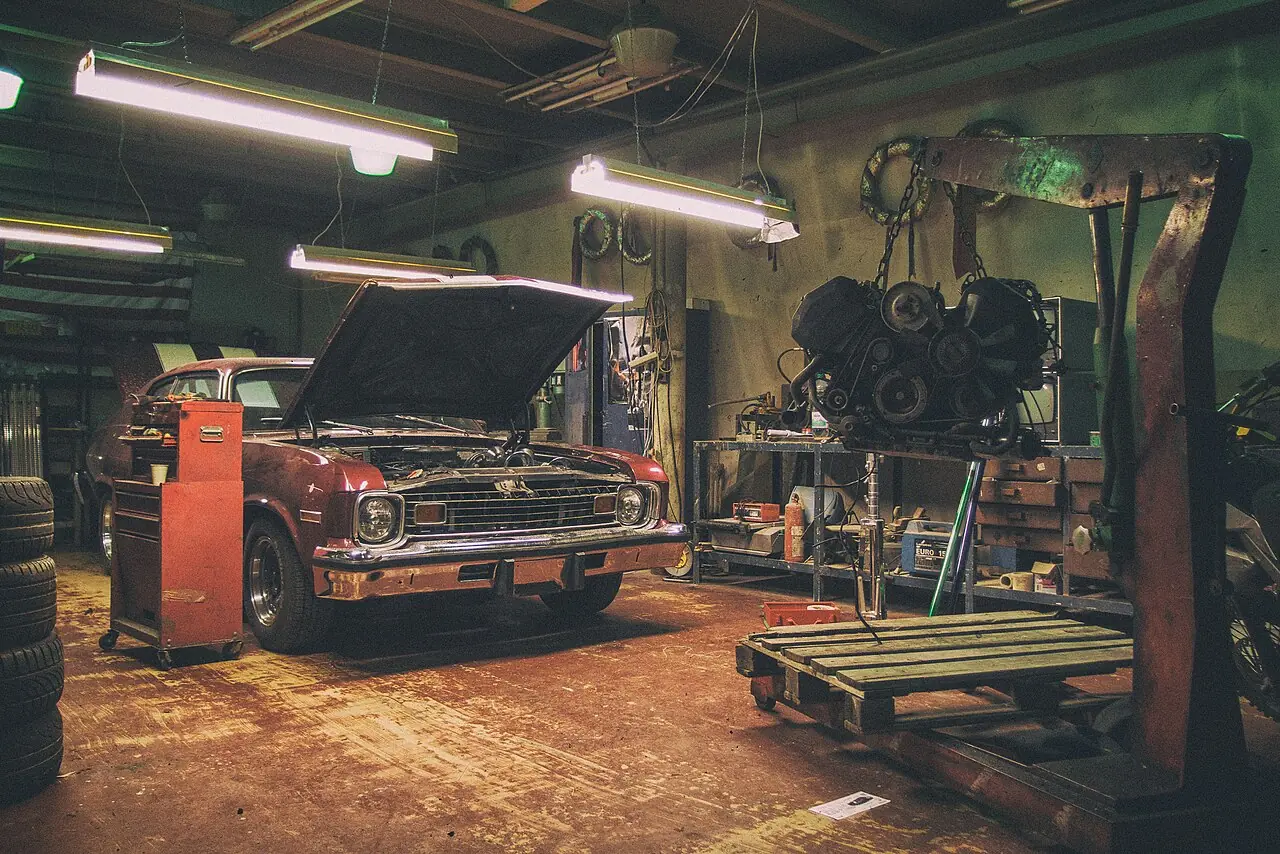
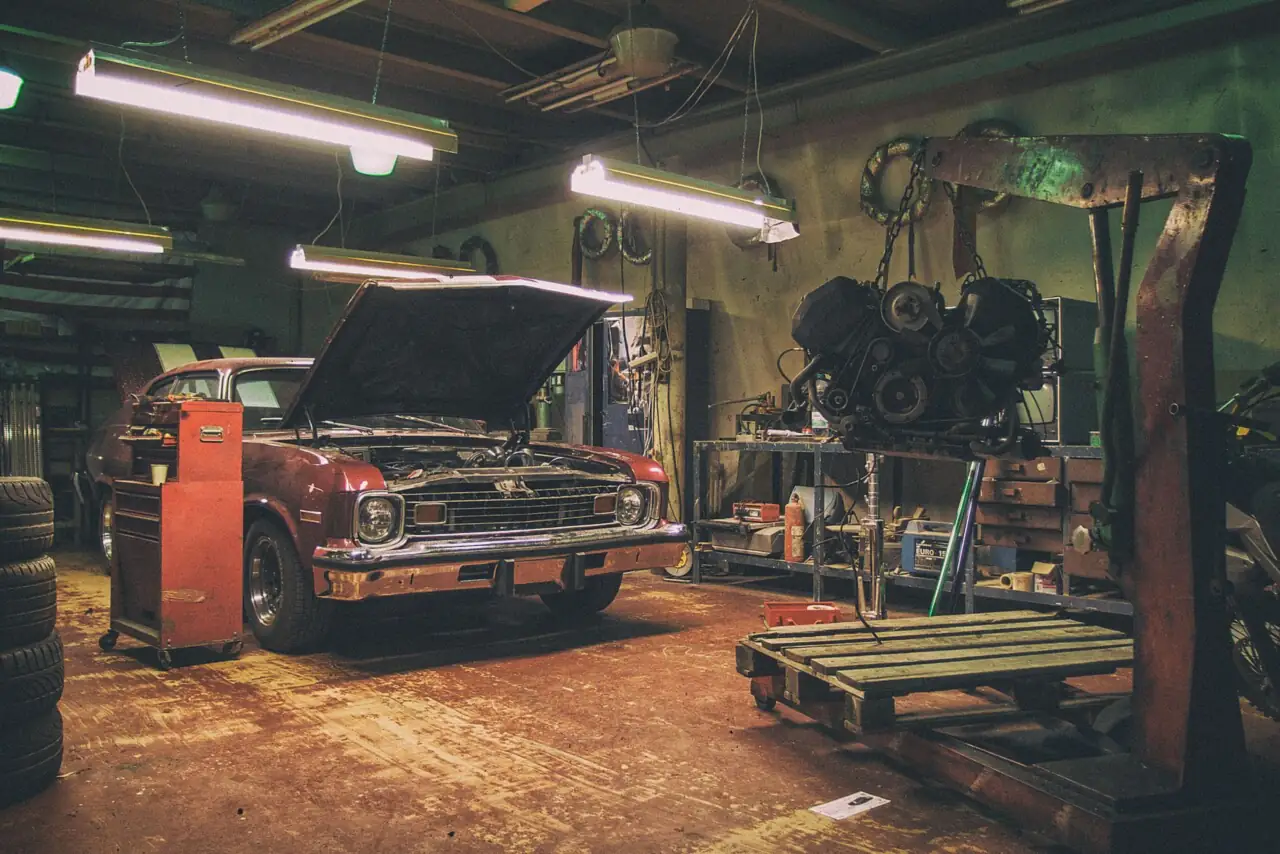
V4.5.6: aviso de privacidad con borrado, foto de portada mas ligera y h2 en la consulta
Claude-Session: https://claude.ai/code/session_01V5zc4pcuou1NumXsbfin42

diff --git a/src/giros/taller/TallerApp.jsx b/src/giros/taller/TallerApp.jsx
@@ -19,8 +19,11 @@ import Hibridos from "./pages/Hibridos"
 import Garaje from "./pages/Garaje"
 import SelectorTema from "./components/SelectorTema"
 import { TALLERES } from "./data/talleres"
-import { guardarTema, leerTema } from "./lib/tema"
-import { cargarCitas, guardarCitas } from "./lib/citas"
+import { TEMA_KEY, guardarTema, leerTema } from "./lib/tema"
+import { CITAS_KEY, cargarCitas, guardarCitas } from "./lib/citas"
+import { ORDEN_KEY } from "./lib/orden"
+import { GARAJE_KEY } from "./lib/garaje"
+import Privacidad from "./components/Privacidad"
 import "./taller.css"
 
 const SECCIONES = {
@@ -137,6 +140,9 @@ function GuiaTaller() {
           horarios son de ejemplo.
         </li>
       </ul>
+      <p>
+        El «Aviso de privacidad», al pie de cada página, dice qué se guarda y permite borrarlo todo.
+      </p>
       <p>“Contactar” y “Hablemos” abren los canales reales de Ian para consultar un proyecto.</p>
     </div>
   )
@@ -173,6 +179,15 @@ export default function TallerApp() {
   const taller = TALLERES[tema]
   const [chat, setChat] = useState(null)
   const [llamada, setLlamada] = useState(false)
+  const [privacidad, setPrivacidad] = useState(false)
+  // Al borrar los datos, las páginas se vuelven a montar para leer el almacenamiento vacío.
+  const [reinicio, setReinicio] = useState(0)
+  const [aviso, setAviso] = useState(null)
+  useEffect(() => {
+    if (!aviso) return undefined
+    const timer = setTimeout(() => setAviso(null), 6000)
+    return () => clearTimeout(timer)
+  }, [aviso])
   useEffect(() => {
     guardarTema(storage(), tema)
     // Los diálogos se montan fuera de .taller-root; el tema les llega por <html>.
@@ -255,7 +270,7 @@ export default function TallerApp() {
           ))}
         </nav>
       </header>
-      <main id="contenido" tabIndex={-1}>
+      <main id="contenido" tabIndex={-1} key={reinicio}>
         <Routes>
           <Route
             index
@@ -305,10 +320,15 @@ export default function TallerApp() {
           <p>{taller.horario}</p>
           <p>
             Garantía de {taller.garantia} en mano de obra. Negocio ficticio creado para una
-            demostración; solo guarda en tu navegador el taller elegido y tus citas de ejemplo.
+            demostración; lo que guarda se queda en tu navegador.
           </p>
         </div>
-        <Link to="/taller/creditos">Créditos de fotos y tipografías</Link>
+        <div className="t-pie-enlaces">
+          <Link to="/taller/creditos">Créditos de fotos y tipografías</Link>
+          <button type="button" className="t-inline" onClick={() => setPrivacidad(true)}>
+            Aviso de privacidad
+          </button>
+        </div>
       </footer>
       <nav className="t-barra-movil" aria-label="Contacto rápido">
         <button type="button" onClick={() => setLlamada(true)}>
@@ -320,6 +340,35 @@ export default function TallerApp() {
         <Link to="/taller/cita">Agendar</Link>
       </nav>
       {llamada && <LlamadaSimulada taller={taller} onCerrar={() => setLlamada(false)} />}
+      {privacidad && (
+        <Privacidad
+          onCerrar={() => setPrivacidad(false)}
+          onBorrar={() => {
+            for (const clave of [TEMA_KEY, CITAS_KEY, ORDEN_KEY, GARAJE_KEY]) {
+              try {
+                window.localStorage.removeItem(clave)
+              } catch {
+                /* Nada que borrar. */
+              }
+            }
+            setCitas([])
+            setTema("rosales")
+            setReinicio((n) => n + 1)
+            setPrivacidad(false)
+            setAviso("Se borraron las citas, el presupuesto, Mi garaje y el taller elegido.")
+          }}
+        />
+      )}
+      <div className="t-aviso-region" role="status" aria-live="polite">
+        {aviso && (
+          <div className="t-aviso">
+            <span>{aviso}</span>
+            <button type="button" className="t-inline" onClick={() => setAviso(null)}>
+              Cerrar aviso
+            </button>
+          </div>
+        )}
+      </div>
       <WhatsAppPreview
         isOpen={Boolean(chat)}
         onClose={() => setChat(null)}

diff --git a/src/giros/taller/components/Privacidad.jsx b/src/giros/taller/components/Privacidad.jsx
@@ -1,0 +1,52 @@
+import { useState } from "react"
+import Modal from "../../../components/shared/Modal"
+
+// Aviso de privacidad del taller (LFPDPPP). Dice lo que guarda la demo y lo que pediría un taller
+// real, y permite borrar todo lo guardado en este navegador.
+export default function Privacidad({ onCerrar, onBorrar }) {
+  const [confirmar, setConfirmar] = useState(false)
+  return (
+    <Modal title="Aviso de privacidad" onClose={onCerrar} className="t-modal" radius={14}>
+      <div className="t-privacidad">
+        <p>
+          Mecánica Rosales y Vértice son negocios ficticios. Esta demo no tiene servidor: no envía,
+          no vende y no comparte ningún dato.
+        </p>
+        <h3>Lo que guarda en este navegador</h3>
+        <ul>
+          <li>El taller elegido.</li>
+          <li>Tus citas de ejemplo, con el nombre, el auto y la dirección que escribiste.</li>
+          <li>Las decisiones y la firma del presupuesto de ejemplo.</li>
+          <li>La sesión de Mi garaje, el kilometraje y los recordatorios del perfil de ejemplo.</li>
+        </ul>
+        <h3>Lo que pediría un taller real</h3>
+        <p>
+          Nombre, teléfono, datos del auto (placas y número de serie) y, si hay recolección, tu
+          dirección; con una aseguradora, el número de siniestro. Se usarían para darte el servicio,
+          la garantía y los avisos de mantenimiento que aceptes. Podrías acceder a tus datos,
+          corregirlos, cancelarlos u oponerte a su uso.
+        </p>
+        {confirmar ? (
+          <div className="t-privacidad-acciones" role="group" aria-label="Confirmar borrado">
+            <p>Se borran las citas, el presupuesto, Mi garaje y el taller elegido.</p>
+            <button type="button" className="t-btn t-btn-p" onClick={onBorrar}>
+              Sí, borrar todo
+            </button>
+            <button type="button" className="t-btn t-btn-s" onClick={() => setConfirmar(false)}>
+              No borrar
+            </button>
+          </div>
+        ) : (
+          <div className="t-privacidad-acciones">
+            <button type="button" className="t-btn t-btn-s" onClick={() => setConfirmar(true)}>
+              Borrar mis datos de esta demo
+            </button>
+            <button type="button" className="t-btn t-btn-p" onClick={onCerrar}>
+              Entendido
+            </button>
+          </div>
+        )}
+      </div>
+    </Modal>
+  )
+}

diff --git a/tests/taller-vertice.test.jsx b/tests/taller-vertice.test.jsx
@@ -170,3 +170,40 @@ describe("Páginas de Vértice", () => {
     expect($("#t-menu-movil").hidden).toBe(true)
   })
 })
+
+describe("Aviso de privacidad", () => {
+  it("dice qué guarda y borra todo con confirmación", async () => {
+    localStorage.setItem(GARAJE_KEY, JSON.stringify({ sesion: true, km: { mazda: 64000 } }))
+    localStorage.setItem(
+      CITAS_KEY,
+      JSON.stringify([
+        {
+          id: "VC-1",
+          taller: "vertice",
+          servicio: "alineacion",
+          sucursal: "cardenas",
+          fecha: new Date(2026, 10, 30, 9).toISOString(),
+          auto: "Mazda 3",
+          estado: "confirmada",
+        },
+      ]),
+    )
+    await renderTaller("/taller/garaje")
+    expect($(".t-garaje-panel")).toBeTruthy()
+    await click(button("Aviso de privacidad"))
+    const dialogo = document.querySelector("dialog")
+    expect(dialogo.textContent).toContain("Lo que guarda en este navegador")
+    await click(button("Borrar mis datos de esta demo", dialogo))
+    await click(button("No borrar", dialogo))
+    expect(localStorage.getItem(GARAJE_KEY)).not.toBeNull()
+    await click(button("Borrar mis datos de esta demo", dialogo))
+    await click(button("Sí, borrar todo", dialogo))
+    expect(document.querySelector("dialog")).toBeNull()
+    expect(localStorage.getItem(CITAS_KEY)).toBe("[]")
+    expect(localStorage.getItem(TEMA_KEY)).toBe("rosales")
+    expect(JSON.parse(localStorage.getItem(GARAJE_KEY) ?? "{}").sesion).not.toBe(true)
+    expect($(".t-aviso").textContent).toContain("Se borraron")
+    // Mi garaje es de Vértice: ahora, con Rosales, ofrece cambiar de taller.
+    expect($(".t-solo-en")).toBeTruthy()
+  })
+})

diff --git a/src/giros/taller/taller.css b/src/giros/taller/taller.css
@@ -2273,3 +2273,77 @@ html[data-taller-tema="vertice"] .t-modal {
 .t-solo-en h2 {
   font-size: 1.375rem;
 }
+
+/* Aviso de privacidad y avisos */
+.t-pie-enlaces {
+  display: flex;
+  flex-wrap: wrap;
+  align-items: start;
+  gap: 4px 20px;
+}
+.t-pie-enlaces .t-inline {
+  color: inherit;
+  font-size: inherit;
+}
+.t-privacidad {
+  display: grid;
+  gap: 12px;
+  color: #d5d9df;
+  font-size: 0.94rem;
+}
+.t-privacidad h3 {
+  margin-top: 6px;
+  color: #fff;
+  font:
+    650 1.0625rem/1.2 "Taller Titulo",
+    system-ui,
+    sans-serif;
+}
+.t-privacidad ul {
+  display: grid;
+  gap: 4px;
+  padding-left: 1.2rem;
+}
+.t-privacidad-acciones {
+  display: flex;
+  flex-wrap: wrap;
+  align-items: center;
+  gap: 10px;
+  margin-top: 8px;
+}
+.t-privacidad-acciones p {
+  flex-basis: 100%;
+}
+.t-modal .t-btn-s {
+  border-color: #626b78;
+  color: #fff;
+}
+.t-aviso-region {
+  position: fixed;
+  bottom: calc(5.5rem + env(safe-area-inset-bottom, 0px));
+  left: 50%;
+  z-index: 75;
+  width: min(30rem, calc(100vw - 2rem));
+  transform: translateX(-50%);
+}
+.t-aviso {
+  display: flex;
+  align-items: center;
+  justify-content: space-between;
+  gap: 14px;
+  padding: 14px 16px;
+  border-radius: 12px;
+  background: #111318;
+  color: #fff;
+  font-size: 0.9rem;
+  box-shadow: 0 16px 40px -16px #000a;
+  animation: t-funde 220ms var(--t-ease, ease-out);
+}
+.t-aviso .t-inline {
+  flex: none;
+  min-height: 44px;
+  color: #fff;
+}
+.t-consulta-h2 {
+  font-size: 1.375rem;
+}

diff --git a/tests/taller-precios.test.jsx b/tests/taller-precios.test.jsx
@@ -112,3 +112,18 @@ describe("Revisión antes de comprar un usado", () => {
     expect(elegido.closest("label").textContent).toContain("Revisión antes de comprar un usado")
   })
 })
+
+describe("Bienvenida", () => {
+  it("enlaza el taller mecánico en el directorio de giros", async () => {
+    const { default: Bienvenida } = await import("../src/pages/Bienvenida")
+    await render(
+      <MemoryRouter>
+        <Bienvenida />
+      </MemoryRouter>,
+    )
+    const enlace = [...document.querySelectorAll("a")].find((a) =>
+      a.textContent.includes("Taller mecánico"),
+    )
+    expect(enlace.getAttribute("href")).toBe("/taller")
+  })
+})

diff --git a/src/giros/taller/pages/Consulta.jsx b/src/giros/taller/pages/Consulta.jsx
@@ -412,6 +412,7 @@ export default function Consulta({ taller }) {
         <Orden taller={taller} />
       ) : (
         <div className="t-consulta-bloque">
+          <h2 className="t-consulta-h2">Escribe el folio y las placas</h2>
           <ConsultaAuto
             orden={taller.orden}
             onEncontrada={({ folio, placas }) => setParams({ folio, placas })}

diff --git a/src/giros/taller/data/medios.js b/src/giros/taller/data/medios.js
@@ -5,7 +5,7 @@ export const FOTOS = {
     nombre: "Portada de Mecánica Rosales",
     autor: "Martin Vorel",
     licencia: "CC BY-SA 4.0",
-    cambios: "Reducida a 1280 px.",
+    cambios: "Reducida a 1280 px, con un suavizado ligero del grano.",
     pagina: "https://commons.wikimedia.org/wiki/File:Car_repair_shop.jpg",
   },
   vertice: {
